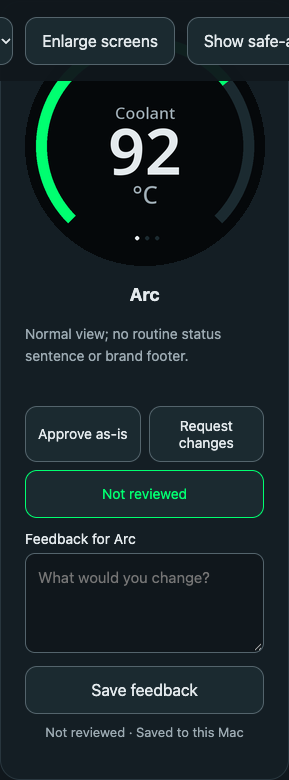
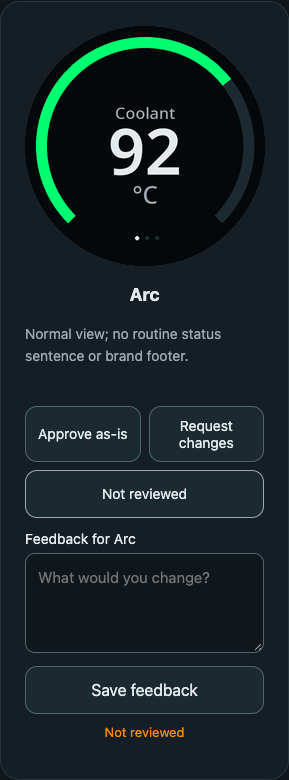
fix(review): keep unreviewed decisions visually neutral

diff --git a/docs/design/gauge-ui-proposal/index.html b/docs/design/gauge-ui-proposal/index.html
@@ -1,7 +1,7 @@
 <!doctype html><html lang="en"><head><meta charset="utf-8"><meta name="viewport" content="width=device-width,initial-scale=1"><title>eGauge display proposal</title><link rel="icon" href="data:,">
 <style>
 :root{color-scheme:dark;font-family:system-ui,sans-serif;background:#10171c;color:#e4eaed}body{margin:0 auto;max-width:1380px;padding:32px}h1{font-size:32px;letter-spacing:-.8px}p{line-height:1.6;color:#9caab2;max-width:900px}header{margin-bottom:32px}.controls{position:sticky;top:0;background:#10171cf5;z-index:2;display:flex;flex-wrap:wrap;gap:12px;padding:16px 0}button,select{background:#1b2a30;color:#e4eaed;border:1px solid #54646c;border-radius:12px;padding:12px 16px;font:inherit;min-height:48px}button[aria-pressed="true"]{border-color:#00ff70;color:#00ff70}.grid{display:grid;grid-template-columns:repeat(auto-fit,minmax(280px,1fr));gap:20px}.card{background:#141e24;border:1px solid #28363e;border-radius:20px;padding:24px;text-align:center}.face{width:240px;height:240px;margin:auto;position:relative}.face img{width:100%;height:100%}.face svg{position:absolute;inset:0;display:none;width:100%;height:100%}.guides .face svg{display:block}.large .face{width:300px;height:300px}.card h3{font-size:18px}.card p{font-size:14px;min-height:4.8em;text-align:left}.card small{display:block;color:#9caab2}footer{margin-top:32px;border-top:1px solid #28363e;padding-top:20px}a{color:#00ff70}@media(max-width:680px){body{padding:16px}.large .face{width:240px;height:240px}.controls{position:relative}}
-.review-summary{background:#1b2a30;border-radius:16px;padding:20px;margin:16px 0 24px}.review-summary p{margin:8px 0;font-size:14px}.review-summary button{background:#00ff70;color:#05080a;font-weight:650}.review-summary span{display:block;margin-top:12px}.decision{display:flex;gap:8px;flex-wrap:wrap;margin:16px 0 12px}.decision button{flex:1;min-width:100px;font-size:14px;padding:10px}.decision .changes[aria-pressed="true"]{color:#ff8a00;border-color:#ff8a00}.review-label{display:block;text-align:left;font-size:14px;margin:10px 0 6px}.feedback{box-sizing:border-box;width:100%;min-height:100px;resize:vertical;background:#10171c;color:#e4eaed;border:1px solid #54646c;border-radius:10px;padding:12px;font:inherit;font-size:15px;line-height:1.5}.save-screen{width:100%;margin-top:10px}.saved-state{margin-top:10px;min-height:2.4em;font-size:13px;color:#9caab2}button:disabled{opacity:.55;cursor:wait}.draft-state{color:#ff8a00}
+.review-summary{background:#1b2a30;border-radius:16px;padding:20px;margin:16px 0 24px}.review-summary p{margin:8px 0;font-size:14px}.review-summary button{background:#00ff70;color:#05080a;font-weight:650}.review-summary span{display:block;margin-top:12px}.decision{display:flex;gap:8px;flex-wrap:wrap;margin:16px 0 12px}.decision button{flex:1;min-width:100px;font-size:14px;padding:10px}.decision .changes[aria-pressed="true"]{color:#ff8a00;border-color:#ff8a00}.decision .reset[aria-pressed="true"]{color:#e4eaed;border-color:#9caab2}.review-label{display:block;text-align:left;font-size:14px;margin:10px 0 6px}.feedback{box-sizing:border-box;width:100%;min-height:100px;resize:vertical;background:#10171c;color:#e4eaed;border:1px solid #54646c;border-radius:10px;padding:12px;font:inherit;font-size:15px;line-height:1.5}.save-screen{width:100%;margin-top:10px}.saved-state{margin-top:10px;min-height:2.4em;font-size:13px;color:#9caab2}button:disabled{opacity:.55;cursor:wait}.draft-state{color:#ff8a00}
 </style></head><body>
 <header><small>PROPOSED • AWAITING APPROVAL • NO FIRMWARE CHANGES</small><h1>eGauge: a display contract for every screen</h1><p>240 × 240 circular concepts using the production Noto fonts and palette. The reading stays primary; one shared status lane owns faults and warnings. Critical attention has a single takeover. These are design mocks, not LVGL captures or physical validation.</p><p>Inspect at native pixel size and enlarged size. Native pixels do not prove physical millimetres on this monitor. The dotted white guide is the 104 px essential-content boundary; the outer amber guide is the 112 px decorative boundary.</p></header>
 <div class="controls"><label>Screen family <select id="family"><option>All</option></select></label><button id="size" aria-pressed="false">Enlarge screens</button><button id="guides" aria-pressed="false">Show safe-area guides</button><label>Review state <select id="review-filter"><option value="all">All</option><option value="unreviewed">Not reviewed</option><option value="changes_requested">Changes requested</option><option value="approved">Approved</option></select></label><span id="count" aria-live="polite"></span></div><section class="review-summary"><strong id="review-counts">Loading saved feedback…</strong><p>Approve any screen as-is, or request changes and add a comment. Comments stay as browser drafts until you save that screen or submit the review. Unreviewed screens remain unreviewed.</p><button id="submit-review" disabled>Submit review</button><span id="save-message" role="status" aria-live="polite"></span></section><main id="cards" class="grid"></main><footer><a href="../gauge-ui-proposal.md">Read the complete UX plan and custom-PID rules</a><p>The count and code examples are fictional display states. Unknown coverage is not healthy, acknowledgment is not code clearing, and provider/maintenance views shown here are proposed additions.</p></footer>
